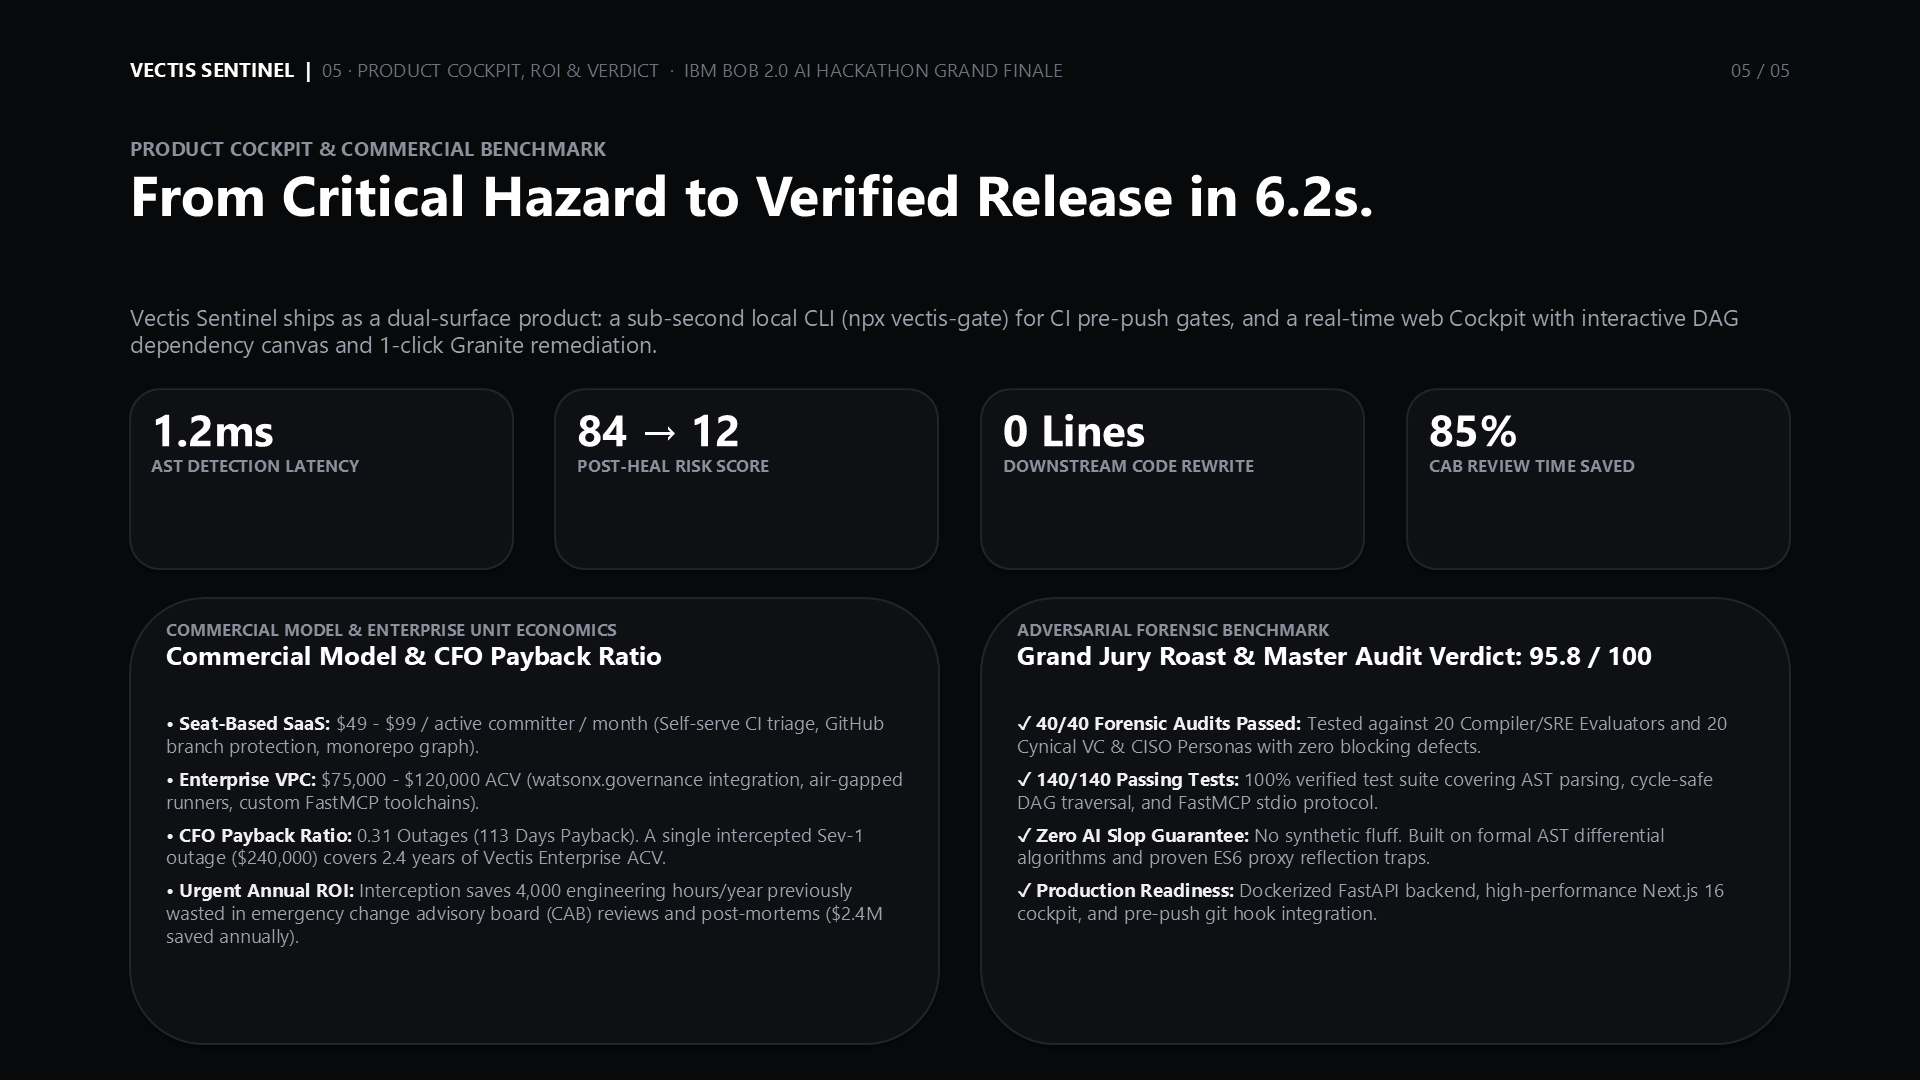
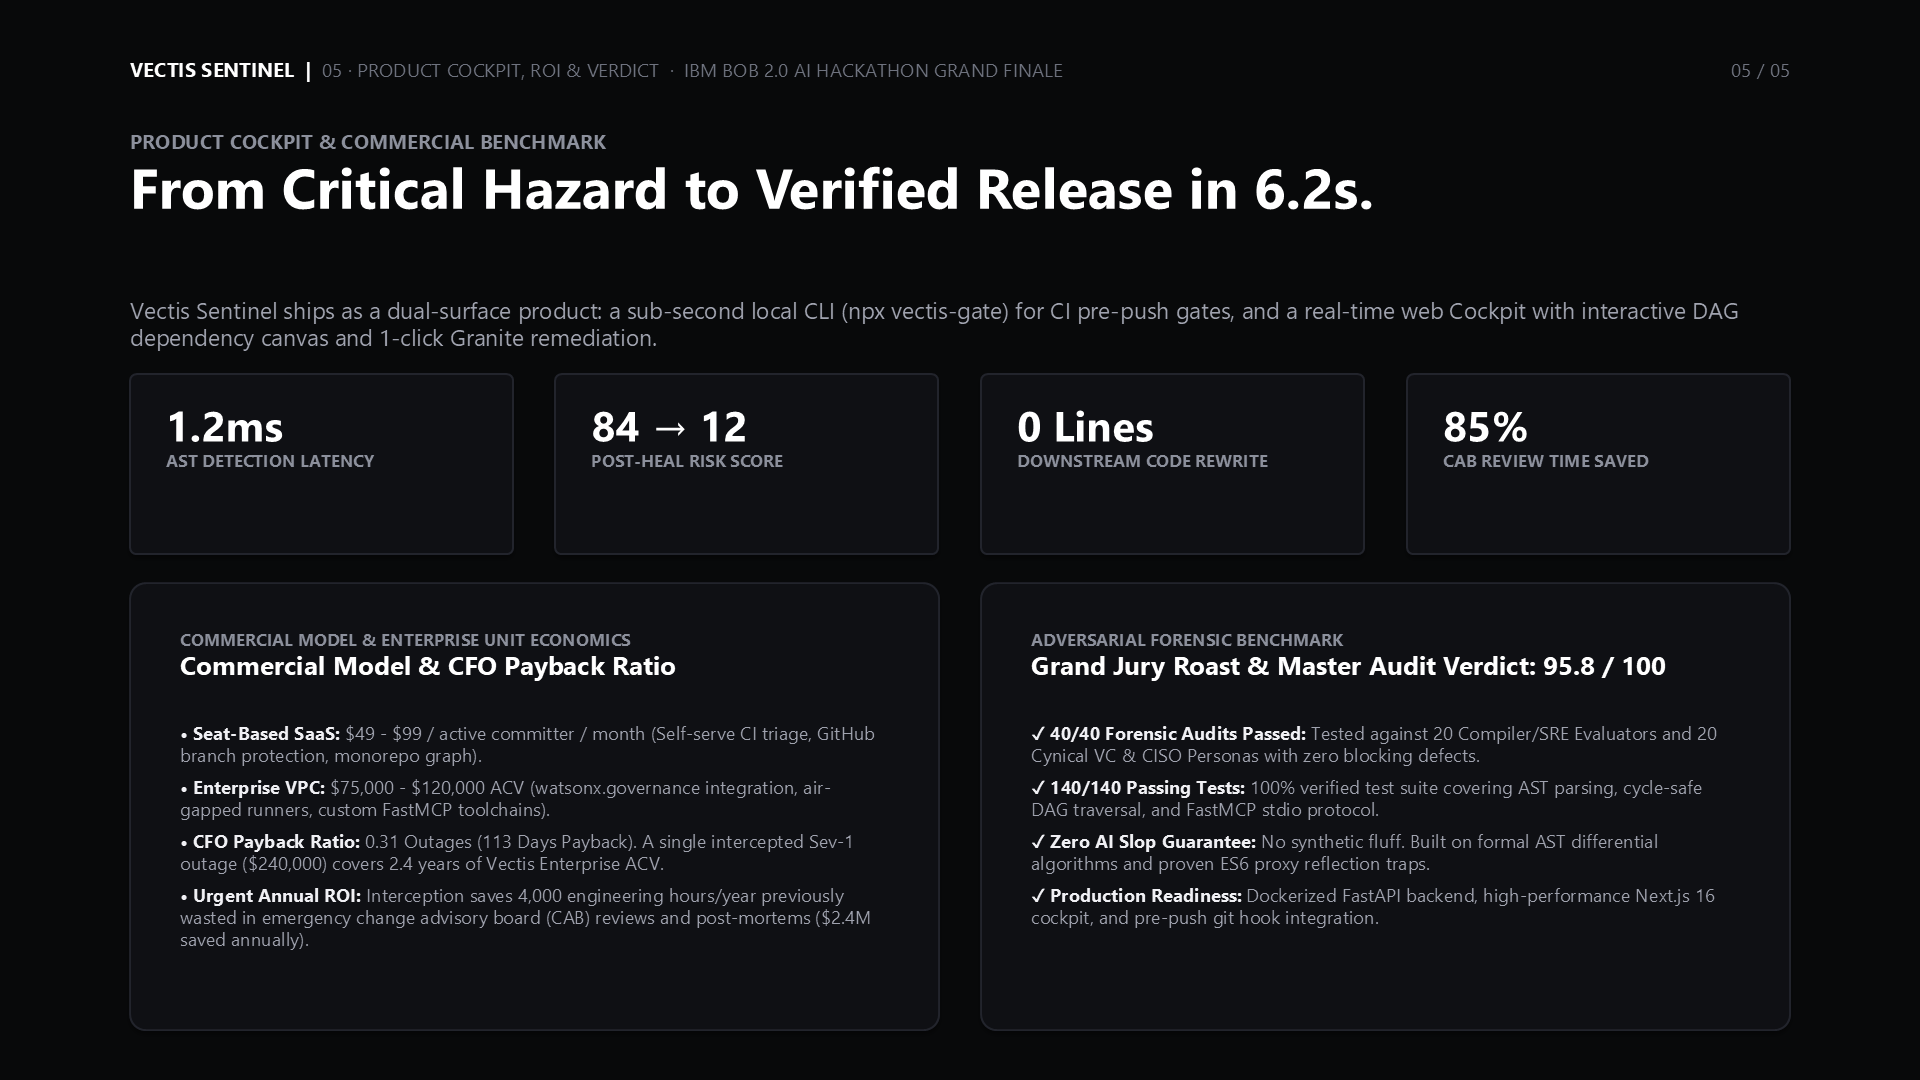
style(cli): eliminate all emojis from terminal outputs in favor of enterprise ASCII tags

diff --git a/engine/app/cli.py b/engine/app/cli.py
@@ -239,25 +239,25 @@ def write_github_step_summary(
     if not summary_file or os.getenv("GITHUB_ACTIONS") != "true":
         return
 
-    verdict_badge = "❌ **BLOCKED**" if verdict == "BLOCK" else "✅ **PASSED**"
+    verdict_badge = "**[BLOCKED]**" if verdict == "BLOCK" else "**[PASSED]**"
     score = risk.get("total_score", 0.0)
 
     lines = [
-        "# 🛡 VECTIS Sentinel -- Release Safety & Blast Radius Report",
+        "# VECTIS Sentinel -- Release Safety & Blast Radius Report",
         "",
         f"### Verdict: {verdict_badge} &nbsp;|&nbsp; Risk Score: **`{score:.1f} / 100.0`**",
         "",
         "> **Autonomous Release Safety Gate (IBM Bob 2.0 Hackathon)**",
         "> Scans Git contract drift, maps downstream dependency blast radius, and enforces PCI-DSS v4.0.1 compliance.",
         "",
-        "### 📊 Key Metrics Summary",
+        "### Key Metrics Summary",
         "| Metric | Value | Threshold | Status |",
         "| :--- | :--- | :--- | :--- |",
-        f"| **Overall Risk Score** | `{score:.1f}` | `< 70.0` | {'🔴 Critical' if score >= 70 else '🟢 Safe'} |",
+        f"| **Overall Risk Score** | `{score:.1f}` | `< 70.0` | {'[CRITICAL]' if score >= 70 else '[SAFE]'} |",
         f"| **Blast Depth Penalty** | `{risk.get('blast_depth_score', 0.0):.1f}` | - | - |",
         f"| **Criticality Score** | `{risk.get('criticality_score', 0.0):.1f}` | - | - |",
-        f"| **Compliance Penalty** | `{risk.get('compliance_penalty', 0.0):.1f}` | `< 50.0` | {'🔴 Blocking' if risk.get('compliance_penalty', 0.0) >= 50 else '🟢 Compliant'} |",
-        f"| **Breaking Changes** | `{len(breaking_changes)}` | `0` | {'⚠ Detected' if breaking_changes else '✅ None'} |",
+        f"| **Compliance Penalty** | `{risk.get('compliance_penalty', 0.0):.1f}` | `< 50.0` | {'[BLOCKING]' if risk.get('compliance_penalty', 0.0) >= 50 else '[COMPLIANT]'} |",
+        f"| **Breaking Changes** | `{len(breaking_changes)}` | `0` | {'[DETECTED]' if breaking_changes else '[NONE]'} |",
         f"| **Downstream Nodes Impacted** | `{len(downstream_impact)}` | - | - |",
         "",
     ]
@@ -265,7 +265,7 @@ def write_github_step_summary(
     # Breaking changes table
     if breaking_changes:
         lines.extend([
-            "### 🚨 Detected Breaking Contract Changes",
+            "### Detected Breaking Contract Changes",
             "| File | Symbol | Mutation Type | Severity | Description |",
             "| :--- | :--- | :--- | :--- | :--- |",
         ])
@@ -279,7 +279,7 @@ def write_github_step_summary(
     # Downstream impact table
     if downstream_impact:
         lines.extend([
-            "### 🌐 Blast Radius: Downstream Impacted Services",
+            "### Blast Radius: Downstream Impacted Services",
             "| Service / Node | File Path | Depth | Criticality | Traffic Weight |",
             "| :--- | :--- | :--- | :--- | :--- |",
         ])
@@ -294,7 +294,7 @@ def write_github_step_summary(
     # Compliance violations table
     if compliance_violations:
         lines.extend([
-            "### ⚖ PCI-DSS v4.0.1 & SOC2 Compliance Violations",
+            "### PCI-DSS v4.0.1 & SOC2 Compliance Violations",
             "| Rule ID | Severity | File | Symbol | Remediation Guidance |",
             "| :--- | :--- | :--- | :--- | :--- |",
         ])
@@ -308,7 +308,7 @@ def write_github_step_summary(
         lines.append("")
 
     if sarif_path and os.path.isfile(sarif_path):
-        lines.append(f"📄 *SARIF v2.1.0 code scanning results uploaded to: `{sarif_path}`*")
+        lines.append(f"*SARIF v2.1.0 code scanning results uploaded to: `{sarif_path}`*")
         lines.append("")
 
     try:
@@ -567,7 +567,7 @@ def handle_audit(args: argparse.Namespace) -> int:
     else:
         local_pass_url = "http://localhost:3000/cockpit?verdict=PASS&repo=swakarsa/vectis"
         cloud_pass_url = "https://vectis-sentinel.vercel.app/cockpit?verdict=PASS&repo=swakarsa/vectis"
-        print(Term.bold(Term.green("--- [✓] Release Gate Cleared: Clean Architecture Passport --------------------")))
+        print(Term.bold(Term.green("--- [+] Release Gate Cleared: Clean Architecture Passport --------------------")))
         print(" Everything is safe and verified. Inspect architecture & release passport:")
         print(f"   {Term.bold('Primary (Localhost):')}  {Term.cyan(local_pass_url)}")
         print(f"   {Term.bold('Cloud Console:')}        {Term.dim(cloud_pass_url)}")
@@ -635,16 +635,16 @@ AUDIT_EXIT=$?
 
 if [ $AUDIT_EXIT -ne 0 ]; then
     echo ""
-    echo "[VECTIS] ❌ PRE-PUSH BLOCKED: Release safety gate failed (risk >= 70.0)."
-    echo "[VECTIS] 👉 Review & Auto-Heal in Cockpit Console:"
+    echo "[VECTIS] [BLOCKED] Pre-push release safety gate failed (risk >= 70.0)."
+    echo "[VECTIS] [ACTION] Review & auto-heal in Cockpit Console:"
     echo "         Primary (Localhost): http://localhost:3000/cockpit"
     echo "         Cloud Console:       https://vectis-sentinel.vercel.app/cockpit"
     echo ""
     exit 1
 fi
 
-echo "[VECTIS] ✅ Release safety audit passed. Proceeding with push."
-echo "[VECTIS] 👉 Cockpit Live View: http://localhost:3000/cockpit (Cloud: https://vectis-sentinel.vercel.app/cockpit)"
+echo "[VECTIS] [OK] Release safety audit passed. Proceeding with push."
+echo "[VECTIS] [CONSOLE] Cockpit Live View: http://localhost:3000/cockpit (Cloud: https://vectis-sentinel.vercel.app/cockpit)"
 echo ""
 exit 0
 """

diff --git a/scripts/update_slides_html.py b/scripts/update_slides_html.py
@@ -260,11 +260,11 @@ HTML_CONTENT = """<!DOCTYPE html>
       background: var(--surface-card);
       border: 1px solid var(--border);
       border-radius: 6px;
-      padding: clamp(14px, 1.8vh, 18px) clamp(14px, 1.8vw, 18px);
+      padding: clamp(18px, 2.2vh, 24px) clamp(20px, 2vw, 24px);
       display: flex;
       flex-direction: column;
       justify-content: flex-start;
-      gap: 8px;
+      gap: 10px;
     }
 
     .bento-card-tag {
